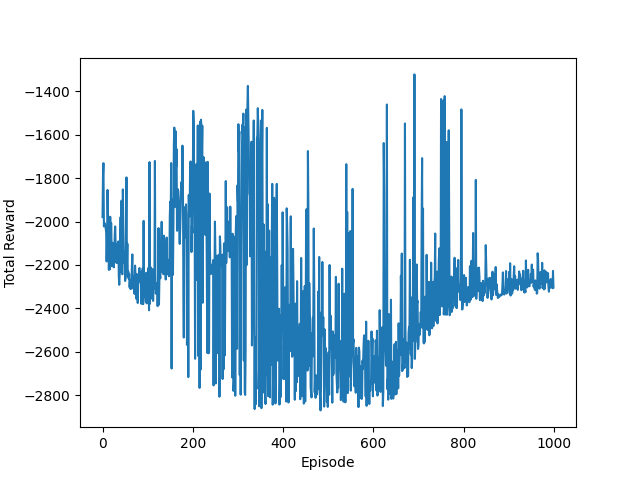
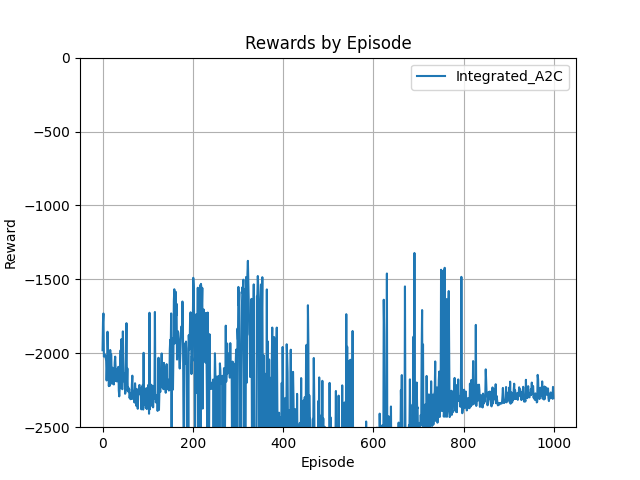
.

diff --git a/a2c/a2c_draw_plot.py b/a2c/a2c_draw_plot.py
@@ -66,7 +66,8 @@ def draw_total_plot(data, title, xlabel, ylabel, filename):
 
 def main():
     """Load rewards from file and draw plot."""
-    reward_paths = Path('a2c/Results').rglob('Model*/*reward.txt')
+    #reward_paths = Path('a2c/Results').rglob('Model*/*reward.txt')
+    reward_paths = Path('a2c/Results/Integrated_A2C').rglob('*reward.txt')
     for path in reward_paths:
         load_and_draw(path, 'Rewards by Episode', 'Episode', 'Reward', path.parent.name, path.with_suffix('.png'))
     
